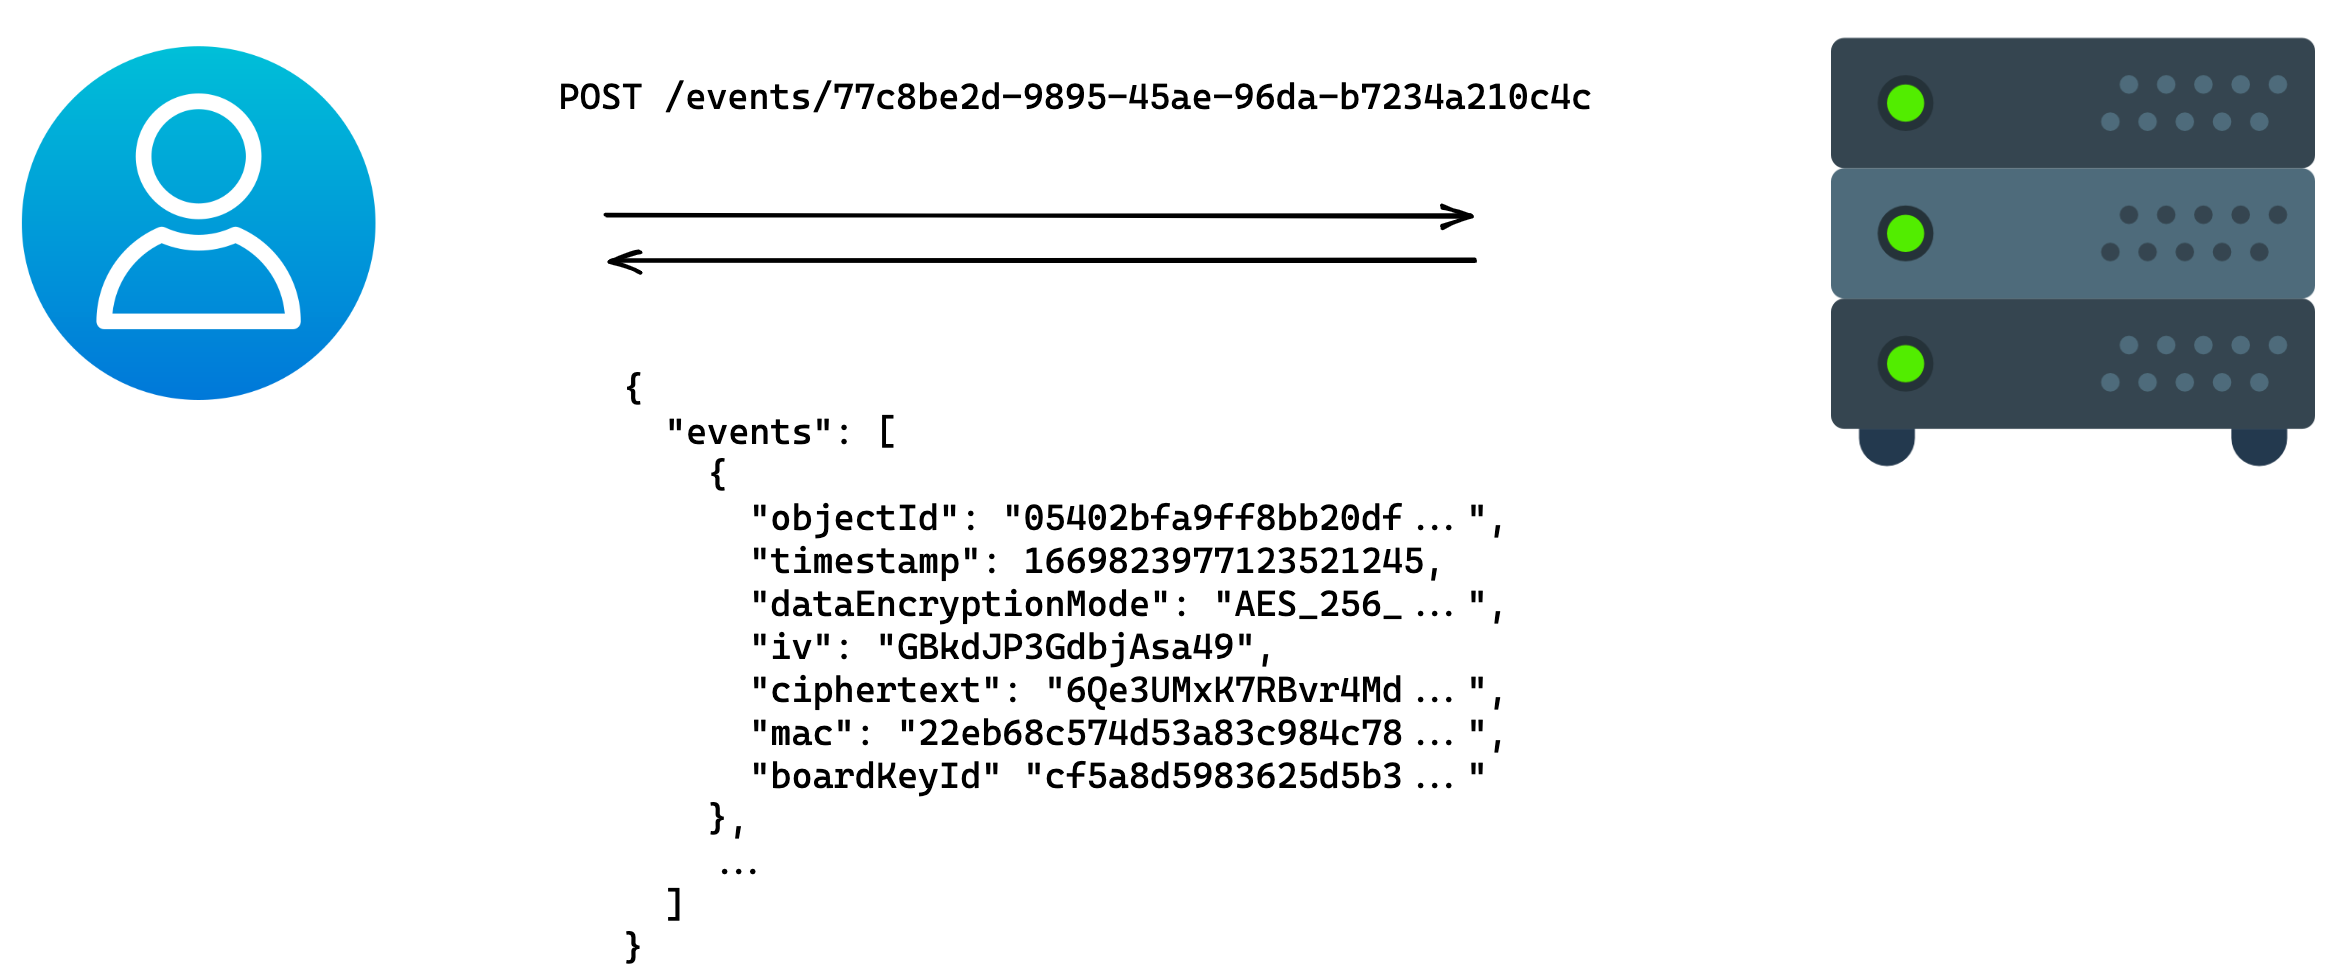
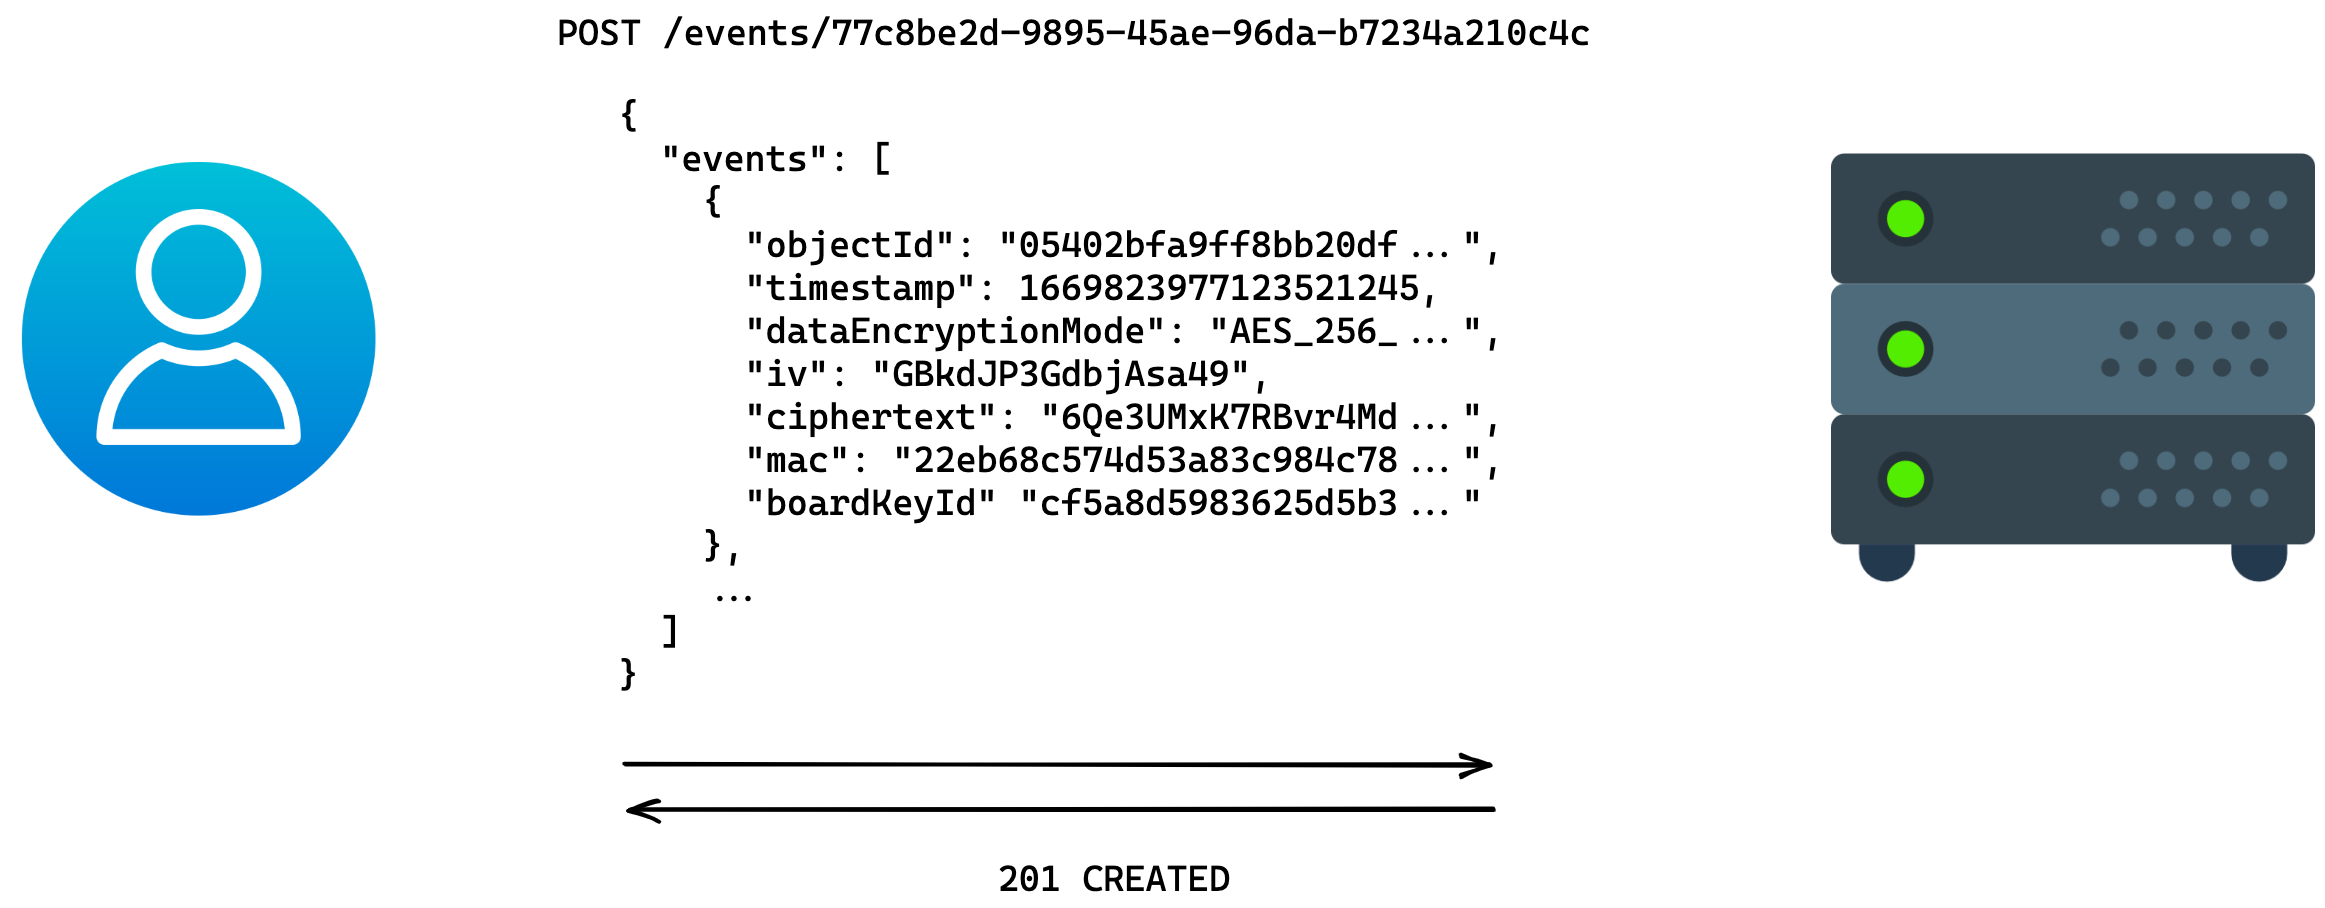
:bento: update images for REST requests

diff --git a/de/03-API-Spezifikation+User-Flows.md b/de/03-API-Spezifikation+User-Flows.md
@@ -163,7 +163,7 @@ id2 = sha256(rsa_public_key_user)
 
 7. Board Encryption Data DTO an den Server schicken
 
-<!-- https://excalidraw.com/#json=38wASZUZnfYZfS-CU7fbr,vsS5ibgrnu98--QbzRuJOg -->
+<!-- https://excalidraw.com/#json=_Gr_3et1YlCPk8a0_dK7O,tsi_E4CB4UnCOKEBGRU3Dw -->
 ![Erstellung eines Boards](../images/03-03-create-board.png)
 
 ## Board bearbeiten
@@ -210,7 +210,7 @@ board_key_id             = sha256(board_key)
 > Im Gegensatz dazu stellt die UUID einen [künstlichen Schlüssel](https://en.wikipedia.org/wiki/Surrogate_key) dar.
 
 3. Änderungen aggregieren und an den Server schicken
-<!-- https://excalidraw.com/#json=x04kjo7fDurdefJud1BaL,ptFPOFhUBPh734af8HsoEA -->
+<!-- https://excalidraw.com/#json=2Pcid6KT0qRRxur-rGujX,cw6Gc_DXPH9AWOQqwk2G2w -->
 ![Bearbeitung eines Boards](../images/03-04-edit-board.png)
 
 > Der Endpunkt `/events/{boardId}` wird verwendet, um Post-it-Inhalte an den Server zu schicken. Jede Erstellung oder
@@ -236,6 +236,7 @@ erforderlich und andererseits der verschlüsselte Board Key. Alice holt sich bei
 
 1. Abrufen der hybriden Schlüsselpaare beim Server
 
+<!-- https://excalidraw.com/#json=CQsHUH2fqRvj5dkWqDrfb,XwEv0EoCLbBJSYJUYGpoAw -->
 ![Abrufen der hybriden Schlüsselpaare](../images/03-05-01-get-keys.png)
 
 ```python
@@ -246,6 +247,10 @@ encrypted_kyber_private_key = hybrid_key_pair.keyPair1.encryptedPrivateKey
 rsa_public_key              = hybrid_key_pair.keyPair2.publicKey.pkBase64
 encrypted_rsa_private_key   = hybrid_key_pair.keyPair2.encryptedPrivateKey
 ```
+
+> Anmerkung: die Angabe der E-Mail-Adresse in der URL ist hier nur beispielhaft, eine auf Sicherheit bedachte Implementierung
+> sollte diese Information schützen. Dies ist beispielsweise möglich durch die Verwendung von UUIDs für `userId` oder indem
+> die E-Mail-Adresse im Request body übergeben wird.
 
 2. Entschlüsseln der privaten Schlüssel
 
@@ -274,7 +279,7 @@ rsa_private_key       = aes256gcm.decrypt(rsa_ciphertext, rsa_encryption_key, rs
 
 3. Abrufen aller für Alice verschlüsselten Board Keys beim Server, weitere Schritte exemplarisch für den ersten Board Key
 
-<!-- https://excalidraw.com/#json=7Fs0Y5gdtBuNnxkAH691l,sjVN6hkazAJr8MLX32IkZA -->
+<!-- https://excalidraw.com/#json=9y47_3FI5hAhwlSmuZwky,3RQOgtO9kyJQNXRsj2BAHg -->
 ![Abrufen eines Boards](../images/03-05-03-get-boards.png)
 
 ```python
@@ -310,7 +315,7 @@ board_key_id  = sha256(board_key)
 
 5. Abrufen aller Post-it-Inhalte beim Server mit anschließender MAC-Validierung und Entschlüsselung
 
-<!-- https://excalidraw.com/#json=VtA_sS3ON0MswyHYhO4gO,RE1zG5GBnTNcUvPZWTDgSw -->
+<!-- https://excalidraw.com/#json=HLgMPuJHEfTYKnTRgMp7O,FTQWYGJQEEAlQm2ycF1hVA -->
 ![Abrufen aller Post-it-Inhalte](../images/03-05-05-get-events.png)
 
 ```python
@@ -389,7 +394,7 @@ id2_target = sha256(rsa_public_key_bob)
 
 7. Board Encryption Data DTO an den Server schicken
 
-<!-- https://excalidraw.com/#json=WzorYgkbf6BKiXkjitVzJ,Gi-jFrDww1BXTYq_ddmtgg -->
+<!-- https://excalidraw.com/#json=sZIO9HkI5-zdr6OW1Xb7C,Kf9d-e9PDS80VbS2aWX03g -->
 ![Board mit anderen Nutzer:innen teilen](../images/03-06-share-board.png)
 
 > Dieser Prozess wird für alle im Board genutzten Board Keys durchgeführt. Dabei werden die Verschlüsselungen analog, aber
@@ -467,26 +472,24 @@ id2 = sha256(rsa_public_key_user)
   "boardId": "77c8be2d-9895-45ae-96da-b7234a210c4c",
   "source": { "id1": "59ec81ac05fdc91...", "id2": "06fafdfcc94157d..." },
   "target": { "id1": "59ec81ac05fdc91...", "id2": "06fafdfcc94157d..." },
-  "encryptedBoardKey": "mW4mDrwpDcSvOBEDgBzN7DGKLd+FtRZViAIrDUCe3RTxNILBpv1kWQ==",
+  "encryptedBoardKey": "5oM1/ifWoEtHFOFfAtEqBaxrtaUo4kbOyBugx+BXY5umydX2uzt5iw==",
   "hybridEncryptionMode": "KYBER_768_RSA_4096",
-  "encapsulatedKdfInput1": "MIIE4zCBlwYJKoZIhvcNAQMBMIGJAkEA...",
-  "encapsulatedKdfInput2": "b5fwR9PJzjrA6TEx9ukiUXxvCSZp2h2e..."
+   "encapsulatedKdfInput1": "SCK275S3OHr1oTSeacxwg4SuBzHnnwNZ...",
+   "encapsulatedKdfInput2": "7c1XMG0qGjU3XT0eybIXH1oHlVIAdMsj..."
 }
 ```
 
 7. Board Encryption Data DTO an den Server schicken
 
-```
-TODO: image
-```
+<!-- https://excalidraw.com/#json=ySe5gpwX7floIwkKN6dGo,B8KCa2-Ngtii24UEEC1uWw -->
+![Zugriffsrechte entziehen](../images/03-07-01-key-rotation.png)
 
 8. Schritte 2-7 für alle Nutzer:innen mit Zugriffsrechten wiederholen - exklusive aller Nutzer:innen, deren Zugriffsrechte
    entzogen wurden.
 9. Server informieren, dass der Board Key gewechselt wurde
 
-```
-TODO: image
-```
+<!-- https://excalidraw.com/#json=ZMGQvkOaSupBLC5mCXSuU,l37K8on9DfLKWxlZ79Q8HQ -->
+![Zugriffsrechte entziehen](../images/03-07-02-key-rotation.png)
 
 > Schritt 9 stellt sicher, dass der alte Board Key nicht weiterhin benutzt wird. Anschließend verhindert der Server das
 > Hinzufügen von Änderungen, die unter einem anderen Board Key verschlüsselt wurden.
